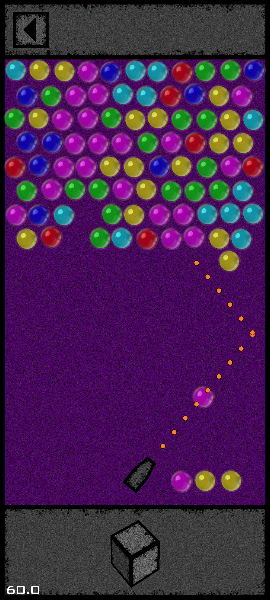
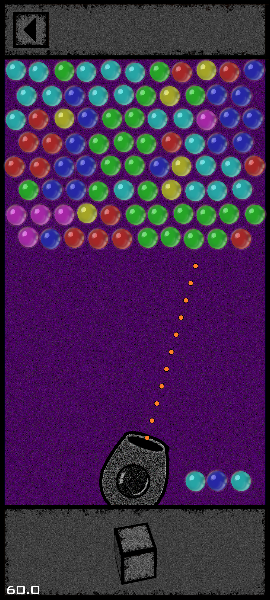
separation forward and backward of gun and edit colors of bubbles

diff --git a/core/src/main/java/com/tbane/bubble_shooter/Game/Game.java b/core/src/main/java/com/tbane/bubble_shooter/Game/Game.java
@@ -26,8 +26,11 @@ public class Game extends Layout {
     public static ArrayList<Bubble> _bubbles;
     public static ArrayList<ShootedBubble> _shootedBubbles;
     public static ArrayList<AnimatedPositioningBubble> _animatedPositioningBubbles;
+    // public static ArrayList<> _destroyingBubbles;
+    // public static ArrayList <> _fallingBubbles;
     private Gun _gun;
-    enum Direction { NE, E, SE, SW, W, NW }
+
+    enum Direction {NE, E, SE, SW, W, NW}
 
     public Game() {
         super();
@@ -57,43 +60,57 @@ public class Game extends Layout {
         Bubble._radius = 32;
 
         _bubblesLinesAtStart = 8;
-        _bubblesInLine = Renderer.VIRTUAL_WIDTH / ((int)Bubble._radius*2);
-        int marginLeft = (int) ((float)(Renderer.VIRTUAL_WIDTH - _bubblesInLine*Bubble._radius*2)/2.0f);
+        _bubblesInLine = Renderer.VIRTUAL_WIDTH / ((int) Bubble._radius * 2);
+        int marginLeft = (int) ((float) (Renderer.VIRTUAL_WIDTH - _bubblesInLine * Bubble._radius * 2) / 2.0f);
 
         Bubble._marginLeft = marginLeft;
 
         _bubbles = new ArrayList<>();
-        for(int y=0;y<_bubblesLinesAtStart;y++){
-            for(int x=0;x<_bubblesInLine-y%2;x++){
-                int color = (int)(Math.random()*6);
+        for (int y = 0; y < _bubblesLinesAtStart; y++) {
+            for (int x = 0; x < _bubblesInLine - y % 2; x++) {
+                int color = (int) (Math.random() * 6);
                 _bubbles.add(new Bubble(x, y, color));
             }
         }
     }
 
     private Bubble getBubble(int x, int y) {
-        for(Bubble bubble : _bubbles){
-            if(bubble.hasCoords(x,y))
+        for (Bubble bubble : _bubbles) {
+            if (bubble.hasCoords(x, y))
                 return bubble;
         }
         return null;
     }
 
-    private Bubble getNeighbour(Bubble bubble, Direction direction){
+    private Bubble getNeighbour(Bubble bubble, Direction direction) {
 
-        if(bubble == null)
+        if (bubble == null)
             return null;
 
         Bubble b = null;
-        switch(direction){
-            case NE: b = getBubble(bubble._coordX+bubble._coordY%2, bubble._coordY-1); break;
-            case E: b = getBubble(bubble._coordX+1, bubble._coordY); break;
-            case SE: b = getBubble(bubble._coordX+bubble._coordY%2, bubble._coordY+1); break;
-            case SW: b = getBubble(bubble._coordX-1+bubble._coordY%2, bubble._coordY+1); break;
-            case W: b = getBubble(bubble._coordX-1, bubble._coordY); break;
-            case NW: b = getBubble(bubble._coordX-1+ bubble._coordY%2, bubble._coordY-1); break;
+        switch (direction) {
+            case NE:
+                b = getBubble(bubble._coordX + bubble._coordY % 2, bubble._coordY - 1);
+                break;
+            case E:
+                b = getBubble(bubble._coordX + 1, bubble._coordY);
+                break;
+            case SE:
+                b = getBubble(bubble._coordX + bubble._coordY % 2, bubble._coordY + 1);
+                break;
+            case SW:
+                b = getBubble(bubble._coordX - 1 + bubble._coordY % 2, bubble._coordY + 1);
+                break;
+            case W:
+                b = getBubble(bubble._coordX - 1, bubble._coordY);
+                break;
+            case NW:
+                b = getBubble(bubble._coordX - 1 + bubble._coordY % 2, bubble._coordY - 1);
+                break;
             // default is NW
-            default : b = getBubble(bubble._coordX+bubble._coordY%2, bubble._coordY-1); break;
+            default:
+                b = getBubble(bubble._coordX + bubble._coordY % 2, bubble._coordY - 1);
+                break;
         }
 
         return b;
@@ -110,7 +127,7 @@ public class Game extends Layout {
         if (bubble._color == color)
             return;
 
-        bubble._color = color;
+        bubble.setColor(color);
 
         for (Direction dir : Direction.values()) {
             if (Math.random() < 0.6f) {
@@ -141,19 +158,20 @@ public class Game extends Layout {
         }
 
         if (possibleColors.isEmpty()) {
-            return (int)(Math.random() * 6);
+            return (int) (Math.random() * 6);
         }
 
-        int index = (int)(Math.random() * possibleColors.size());
+        int index = (int) (Math.random() * possibleColors.size());
         return possibleColors.get(index);
     }
-    private void coloringBubbles(){
-        for(int i=0; i<64; i++){
-            int y = (int)(Math.random()*_bubblesLinesAtStart);
-            int x = (int)(Math.random()*_bubblesInLine);
-            Bubble bubble = getBubble(x,y);
+
+    private void coloringBubbles() {
+        for (int i = 0; i < 64; i++) {
+            int y = (int) (Math.random() * _bubblesLinesAtStart);
+            int x = (int) (Math.random() * _bubblesInLine);
+            Bubble bubble = getBubble(x, y);
             int color = generateColor(bubble);
-            int iter = (int)(Math.random()*3)+1;
+            int iter = (int) (Math.random() * 3) + 1;
             coloringBubbles(bubble, color, iter);
         }
     }
@@ -212,7 +230,7 @@ public class Game extends Layout {
             }
         }
 
-        for(Bubble bubble : visited){
+        for (Bubble bubble : visited) {
             _bubbles.remove(bubble);
         }
 
@@ -246,16 +264,17 @@ public class Game extends Layout {
 
         _bubbles.removeIf(bubble -> !connectedToTop.contains(bubble));
     }
+
     private void shootedBubblesUpdate() {
         for (int i = _shootedBubbles.size() - 1; i >= 0; i--) {
             ShootedBubble bubble = _shootedBubbles.get(i);
             Vector2 position = bubble._bubble.getPositionWithVariation();
             boolean bubbleCollided = false;
 
-            if(position.y > Renderer.VIRTUAL_HEIGHT - 160 - Bubble._radius)
+            if (position.y > Renderer.VIRTUAL_HEIGHT - 160 - Bubble._radius)
                 bubbleCollided = true;
 
-            if(!bubbleCollided){
+            if (!bubbleCollided) {
                 for (Bubble staticBubble : _bubbles) {
                     float xx = position.x - staticBubble.getPositionWithVariation().x;
                     float yy = position.y - staticBubble.getPositionWithVariation().y;
@@ -286,7 +305,7 @@ public class Game extends Layout {
                 _animatedPositioningBubbles.add(
                     new AnimatedPositioningBubble(b,
                         b.getPosition(),
-                        Bubble.calcPositionFromCoords((int)coords.x, (int)coords.y)
+                        Bubble.calcPositionFromCoords((int) coords.x, (int) coords.y)
                     ));
                 _shootedBubbles.remove(i);
             } else {
@@ -313,7 +332,7 @@ public class Game extends Layout {
 
                 int countSameBubbles = countBubbleGroup(bubble._bubble);
 
-                if(countSameBubbles > 2)
+                if (countSameBubbles > 2)
                     removeBubbleGroup(bubble._bubble);
 
                 removeFloatingBubbles();
@@ -346,20 +365,22 @@ public class Game extends Layout {
     public void draw() {
 
         Texture backgroundTexture = AssetsManager.getTexture("tex/gameBoard.png");
-        if(backgroundTexture!=null){
+        if (backgroundTexture != null) {
             Sprite background = new Sprite(backgroundTexture);
-            background.setPosition(0,0 );
+            background.setPosition(0, 0);
             background.draw(Renderer.spriteBatch);
         }
 
         Texture topPanelTexture = AssetsManager.getTexture("tex/topPanel.png");
-        if(topPanelTexture != null){
+        if (topPanelTexture != null) {
             Sprite topPanel = new Sprite(topPanelTexture);
-            topPanel.setPosition(0,Renderer.VIRTUAL_HEIGHT - topPanel.getHeight() );
+            topPanel.setPosition(0, Renderer.VIRTUAL_HEIGHT - topPanel.getHeight());
             topPanel.draw(Renderer.spriteBatch);
         }
 
         _backBtn.draw();
+
+        _gun.drawBackward();
 
         // draw colors of bubbles
         Renderer.end2D();
@@ -367,11 +388,11 @@ public class Game extends Layout {
         Gdx.gl.glBlendFunc(GL20.GL_SRC_ALPHA, GL20.GL_ONE_MINUS_SRC_ALPHA);
         Renderer.shapeRenderer.begin(ShapeRenderer.ShapeType.Filled);
 
-        for(Bubble bubble : _bubbles)
+        for (Bubble bubble : _bubbles)
             bubble.drawColor();
-        for(ShootedBubble bubble : _shootedBubbles)
+        for (ShootedBubble bubble : _shootedBubbles)
             bubble._bubble.drawColor();
-        for(AnimatedPositioningBubble bubble : _animatedPositioningBubbles)
+        for (AnimatedPositioningBubble bubble : _animatedPositioningBubbles)
             bubble._bubble.drawColor();
 
         _gun.drawColorOfAmmo();
@@ -380,22 +401,23 @@ public class Game extends Layout {
 
         // draw bubbles
         Renderer.begin2D();
-        for(Bubble bubble : _bubbles)
+
+        for (Bubble bubble : _bubbles)
             bubble.drawBubble();
 
-        for(ShootedBubble bubble : _shootedBubbles)
+        for (ShootedBubble bubble : _shootedBubbles)
             bubble._bubble.drawBubble();
 
-        for(AnimatedPositioningBubble bubble : _animatedPositioningBubbles)
+        for (AnimatedPositioningBubble bubble : _animatedPositioningBubbles)
             bubble._bubble.drawBubble();
 
         _gun.drawBubbleOfAmmo();
 
-        _gun.draw();
+        _gun.drawForward();
 
         // ads panel
         Texture bottomPanelTexture = AssetsManager.getTexture("tex/bottomPanel.png");
-        if(bottomPanelTexture!=null){
+        if (bottomPanelTexture != null) {
             Sprite adsPanel = new Sprite(bottomPanelTexture);
             adsPanel.setPosition(0, 0);
             adsPanel.draw(Renderer.spriteBatch);

diff --git a/core/src/main/java/com/tbane/bubble_shooter/Game/Gun.java b/core/src/main/java/com/tbane/bubble_shooter/Game/Gun.java
@@ -28,6 +28,7 @@ public class Gun {
         loadAmmo();
         loadAmmo();
         loadAmmo();
+
     }
 
     private void loadAmmo(){
@@ -38,16 +39,16 @@ public class Gun {
 
         for(int i=0;i<_ammo.size();i++){
             float x = Bubble._radius*2.0f*i;
-            _ammo.get(i).setPosition(new Vector2(_position.x + 128 + x,_position.y));
+            _ammo.get(i).setPosition(new Vector2(_position.x + 160 + x,_position.y));
 
         }
     }
     private Vector2 getGunTipPosition() {
-        float offset = 96-24; // od origin do końca lufy
+        float offset = 96-24;
         float rad = (float)Math.toRadians(_angleInDegrees);
         return new Vector2(
-            _position.x - offset * (float)Math.sin(rad),  // cos dla X
-            _position.y + offset * (float)Math.cos(rad)   // sin dla Y
+            _position.x - offset * (float)Math.sin(rad),
+            _position.y + offset * (float)Math.cos(rad)
         );
     }
 
@@ -184,7 +185,18 @@ public class Gun {
             ammo.drawBubble();
     }
 
-    public void draw(){
+    public void drawBackward(){
+        Texture gunBackwardTexture = AssetsManager.getTexture("tex/gunBackward.png");
+        if(gunBackwardTexture != null){
+            Sprite gunBackward = new Sprite(gunBackwardTexture);
+            gunBackward.setOrigin(127,127);
+            gunBackward.setRotation(_angleInDegrees-4);
+            gunBackward.setPosition(_position.x - gunBackward.getOriginX(), _position.y - gunBackward.getOriginY());
+            gunBackward.draw(Renderer.spriteBatch);
+        }
+    }
+
+    public void drawForward(){
 
         Texture laserPointTexture = AssetsManager.getTexture("tex/laser.png");
         if(laserPointTexture != null){
@@ -197,13 +209,13 @@ public class Gun {
             }
         }
 
-        Texture gunTexture = AssetsManager.getTexture("tex/gun.png");
-        if(gunTexture != null){
-            Sprite gun = new Sprite(gunTexture);
-            gun.setOrigin(24,24);
-            gun.setRotation(_angleInDegrees);
-            gun.setPosition(_position.x - gun.getOriginX(), _position.y - gun.getOriginY());
-            gun.draw(Renderer.spriteBatch);
+        Texture gunForwardTexture = AssetsManager.getTexture("tex/gunForward.png");
+        if(gunForwardTexture != null){
+            Sprite gunForward = new Sprite(gunForwardTexture);
+            gunForward.setOrigin(127,127);
+            gunForward.setRotation(_angleInDegrees-4);
+            gunForward.setPosition(_position.x - gunForward.getOriginX(), _position.y - gunForward.getOriginY());
+            gunForward.draw(Renderer.spriteBatch);
         }
 
 

diff --git a/core/src/main/java/com/tbane/bubble_shooter/Game/Bubble.java b/core/src/main/java/com/tbane/bubble_shooter/Game/Bubble.java
@@ -34,15 +34,16 @@ public class Bubble {
     public Vector3 getColor(){
         Vector3 color;
 
-        float c = 0.75f;
+        float c = 0.65f;    // first color value (main)
+        float a = 0.15f;    // second color value (background)
 
         switch (_color){
-            case 0: color = new Vector3(c,0,0); break;
-            case 1: color = new Vector3(0,c,0); break;
-            case 2: color = new Vector3(0,0,c); break;
-            case 3: color = new Vector3(c,c,0); break;
-            case 4: color = new Vector3(0,c,c); break;
-            case 5: color = new Vector3(c,0,c); break;
+            case 0: color = new Vector3(c,a,a); break;
+            case 1: color = new Vector3(a,c,a); break;
+            case 2: color = new Vector3(a,a,c); break;
+            case 3: color = new Vector3(c,c,a); break;
+            case 4: color = new Vector3(a,c,c); break;
+            case 5: color = new Vector3(c,a,c); break;
             default: color = new Vector3(0,0,0); break;
         }
 
@@ -57,6 +58,10 @@ public class Bubble {
         _coordX = (int)coords.x;
         _coordY = (int)coords.y;
     }
+    public void setColor(int color){
+        _color = color;
+    }
+
     public boolean hasCoords(int x, int y){
         return x == _coordX && y == _coordY;
     }
@@ -119,10 +124,10 @@ public class Bubble {
         float radius = _radius - 5;
         Vector2 positionWithVariation = getPositionWithVariation();
 
-        Renderer.shapeRenderer.setColor(r, g, b, 0.75f);
+        Renderer.shapeRenderer.setColor(r, g, b, 1.f);
         Renderer.shapeRenderer.circle(positionWithVariation.x, positionWithVariation.y, radius);
 
-        Renderer.shapeRenderer.setColor(r+0.25f, g+0.25f, b+0.25f, 0.75f);
+        Renderer.shapeRenderer.setColor(r+0.25f, g+0.25f, b+0.25f, 1.f);
         Renderer.shapeRenderer.circle(positionWithVariation.x - radius*4.0f/11.0f, positionWithVariation.y+radius*4.0f/11.0f, radius/4);
 
     }

diff --git a/core/src/main/java/com/tbane/bubble_shooter/AssetsManager.java b/core/src/main/java/com/tbane/bubble_shooter/AssetsManager.java
@@ -36,8 +36,10 @@ public class AssetsManager {
 
         loadTexture("tex/gameBoard.png");
         loadTexture("tex/bubble.png");
-        loadTexture("tex/gun.png");
+        loadTexture("tex/gunForward.png");
+        loadTexture("tex/gunBackward.png");
         loadTexture("tex/laser.png");
+
         manager.finishLoading();
     }
 
